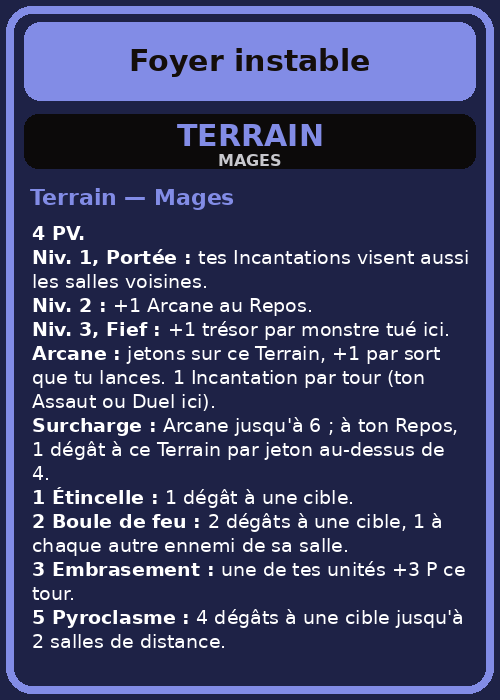
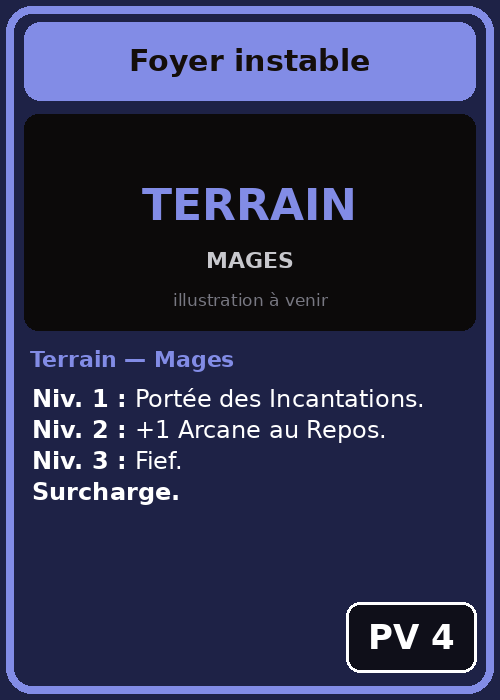
Terrains recto verso : recto illustré, verso menu (#3)
Claude-Session: https://claude.ai/code/session_01LZozbj7Reu5jePH3WkELpW

diff --git a/livret/livret.html b/livret/livret.html
@@ -177,7 +177,7 @@ a{color:var(--accent)}
     <li><strong>Salles</strong> : 4 en ligne, chacune avec un monstre. Voisine = numéro ±1.</li>
     <li><strong>Expéditions</strong> : une par salle et par joueur, face à la salle. <strong>3 unités max</strong>, jetons compris.</li>
     <li><strong>Camp</strong> : ta zone de repli et de soin, hors du donjon. Il touche toutes tes Expéditions, n'a pas de limite d'unités et n'est jamais une salle. Ton Gardien y vit.</li>
-    <li>Ton <strong>Terrain</strong> se pose dans une Expédition. Sa salle est ta <strong>Taverne</strong>, ta <strong>Forêt</strong> ou ton <strong>Cercle</strong>.</li>
+    <li>Ton <strong>Terrain</strong> se pose dans une Expédition. Sa salle est ta <strong>Taverne</strong>, ta <strong>Forêt</strong> ou ton <strong>Cercle</strong>. La carte est recto verso : le recto, visible en jeu, porte ses PV et ses passifs ; le verso donne son menu (pintes, recettes ou Incantations).</li>
   </ul>
 </section>
 

diff --git a/tools/generate.py b/tools/generate.py
@@ -370,10 +370,10 @@ def draw_card(c, path):
     while d.textlength(c["name"], font=tf) > W - 150 and tf.size > 16:
         tf = font(tf.size - 1, True)
     d.text((W // 2 + (0 if c["type"] in ("Terrain", "Menu") else 24), 61), c["name"], font=tf, fill=(20, 14, 10), anchor="mm")
-    fiche = c["type"] in ("Terrain", "Menu")
+    fiche = c["type"] in ("Terrain", "Menu") and not c.get("recto")   # recto d'un Terrain : illustré
     top = 168 if fiche else 330   # bas de l'illustration (plus de place pour le texte des fiches)
     # Coût (ou trésors pour un monstre : pastille dorée ; rien pour une fiche)
-    if fiche:
+    if fiche or c["type"] == "Terrain":
         pass
     elif c.get("tresors") is not None:
         d.ellipse((30, 28, 94, 92), fill=(232, 186, 60), outline="white", width=3)
@@ -384,7 +384,7 @@ def draw_card(c, path):
 
     # Illustration (placeholder)
     d.rounded_rectangle((24, 114, W - 25, top), radius=14, fill=(12, 10, 10))
-    big = "ÉVOLUÉ" if c.get("verso") else TYPE_LABEL[c["type"]].upper()
+    big = c.get("big") or ("ÉVOLUÉ" if c.get("verso") else TYPE_LABEL[c["type"]].upper())
     d.text((W // 2, 136 if fiche else 205), big, font=font(30 if fiche else 44, True), fill=frame, anchor="mm")
     if c.get("relique"):
         d.rounded_rectangle((W - 190, 122, W - 33, 160), radius=10, fill=(225, 190, 70))
@@ -402,7 +402,7 @@ def draw_card(c, path):
     d.text((30, top + 16), tl, font=font(22, True), fill=frame)
 
     # Texte de règles (taille auto)
-    box_bottom = H - 112 if c["power"] is not None else H - 36
+    box_bottom = H - 112 if c["power"] is not None or c.get("recto") else H - 36
     size = 24
     while True:
         f, fb = font(size), font(size, True)
@@ -426,6 +426,9 @@ def draw_card(c, path):
             d.rounded_rectangle((x0, H - 98, x0 + 130, H - 28), radius=14, fill=(15, 15, 25),
                                 outline="white", width=3)
             d.text((x0 + 65, H - 63), label, font=font(34, True), fill="white", anchor="mm")
+    elif c.get("recto"):
+        d.rounded_rectangle((W - 154, H - 98, W - 24, H - 28), radius=14, fill=(15, 15, 25), outline="white", width=3)
+        d.text((W - 89, H - 63), f"PV {c['hp_terrain']}", font=font(34, True), fill="white", anchor="mm")
     img.save(path, optimize=True)
 
 

diff --git a/tools/from_bible.py b/tools/from_bible.py
@@ -47,6 +47,14 @@ def rich(texte):
     return "\n".join(lignes)
 
 
+def terrain_rich(texte):
+    t = rich(texte)
+    for niv in ("Niv. 2 :", "Niv. 3 :"):
+        t = t.replace(f". {niv}", f".\n**{niv}**")
+    t = t.replace("**Encaisser. À 0 PV :**", "**Encaisser.**\n**À 0 PV :**")
+    return "\n".join(f"**{l}**" if l.endswith(" :") else l for l in t.split("\n"))
+
+
 def invoque(texte):
     t = texte.lower()
     return [j for j in ("pousse", "loup") if j in t and "jeton." not in t]
@@ -66,12 +74,13 @@ def cartes_guildes():
                       p, pv, legal=False if jeton else int(r["max"]), token=jeton, tokens=invoque(r["texte"]))
             c["gardien"] = r["gardien"]
             if typ == "Terrain":
-                t = c["text"]
-                for niv in ("Niv. 2 :", "Niv. 3, Fief :"):
-                    t = t.replace(f". {niv}", f".\n**{niv}**")
-                t = t.replace("\nPinte (", "\n**Pinte** (")
-                c["text"] = f"**{pv} PV.**\n" + t
+                # Recto verso : « recto || verso ». Recto illustré (ce que l'adversaire doit lire), verso = menu.
+                recto, _, verso = r["texte"].partition(" || ")
+                c["text"] = terrain_rich(recto)
+                c["recto"] = True
                 c["hp_terrain"] = pv
+                if verso:
+                    c["back"] = dict(text=terrain_rich(verso), recto=False, big="MENU")
             out.append(c)
     return out
 

diff --git a/livret/livret.md b/livret/livret.md
@@ -40,7 +40,7 @@ Le plus de trésors gagne. Égalité : le tueur du boss, sinon celui qui a tué 
 - **Salles** : 4 en ligne, chacune avec un monstre. Voisine = numéro ±1.
 - **Expéditions** : une par salle et par joueur, face à la salle. **3 unités max** (jetons compris).
 - **Camp** : ta zone de repli et de soin, hors du donjon. Il touche toutes tes Expéditions, n'a pas de limite d'unités et n'est jamais une salle. Ton Gardien y vit.
-- Ton **Terrain** se pose dans une Expédition. Sa salle est ta **Taverne / Forêt / Cercle**.
+- Ton **Terrain** se pose dans une Expédition. Sa salle est ta **Taverne / Forêt / Cercle**. La carte est recto verso : le recto, visible en jeu, porte ses PV et ses passifs ; le verso donne son menu (pintes, recettes ou Incantations).
 
 ## 4. Mise en place
 

diff --git a/bible/04_decisions.md b/bible/04_decisions.md
@@ -61,6 +61,7 @@
 - [OK] Format Terrains : le Gardien vient avec un Terrain qui porte les bonus de la guilde (alcools, recettes) et leur prix.
 - [OK] Les Livres de recettes sont fusionnés dans les bosquets.
 - [OK] Niveaux 1-3, Fief au niv. 3, pillage +1 trésor.
+- [OK] Terrains recto verso : recto = illustration + ce que l'adversaire doit lire (passifs, Encaisser, explosion) ; verso = menu (ressource et recettes). Rappels du glossaire retirés des cartes (2026-10-16).
 - [OK] Dernière tournée : 1 fois par partie, coûte tous les PV du baril (jamais réduit) ; baril explosé revient au niv. 1 à ton Assaut suivant, sans pillage (2026-10-16).
 - [NON] Système de Réserve (alcools et ingrédients en cartes à part) : remplacé par les Terrains. Archivé sur la branche `archive-reserve`.
 

diff --git a/bible/01_regles_core.md b/bible/01_regles_core.md
@@ -49,6 +49,7 @@ Termes : voir `00_glossaire.md`.
 - Un raid réussi peut prendre la carte au lieu du 1er trésor volé.
 
 ## Terrain
+- Carte recto verso : recto visible en jeu (PV, passifs, ce que l'adversaire doit lire) ; verso = menu (ressource et recettes).
 - A des PV, ne frappe pas, ne bloque pas les raids. Une unité adverse qui combat dans sa salle peut l'attaquer.
 - Bonus : à ton Assaut, ou pendant n'importe quel Duel dans sa salle (même au tour adverse). Visent tes unités de la salle.
 - Détruit (par l'adversaire ou explosé) : revient au niveau 1 à ton Assaut suivant. Détruit par l'adversaire : +1 trésor pour lui (pillage).
